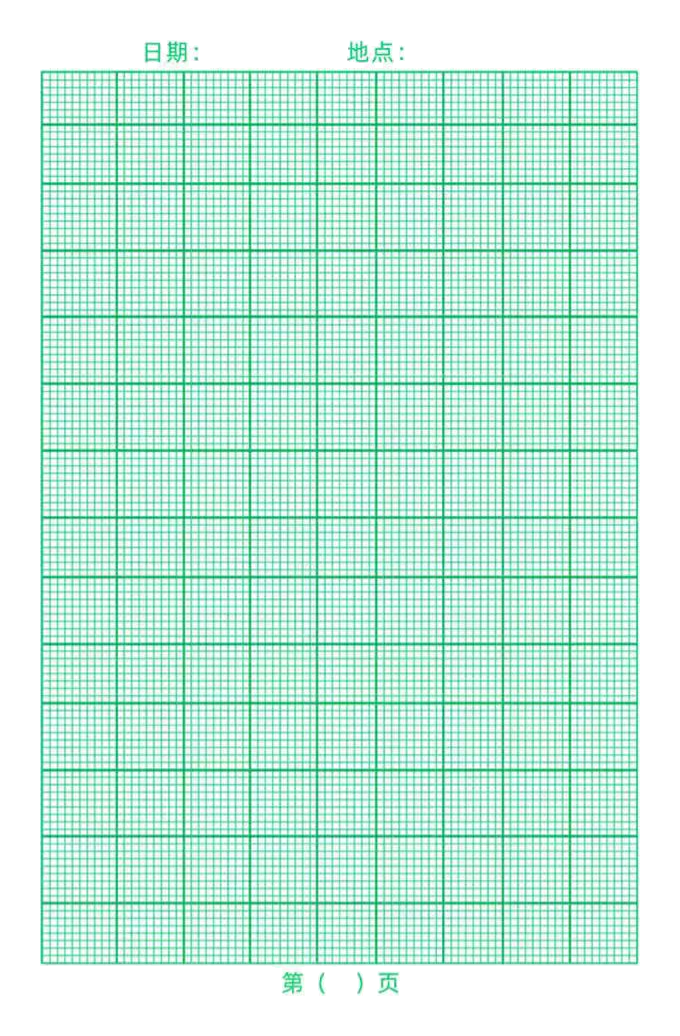
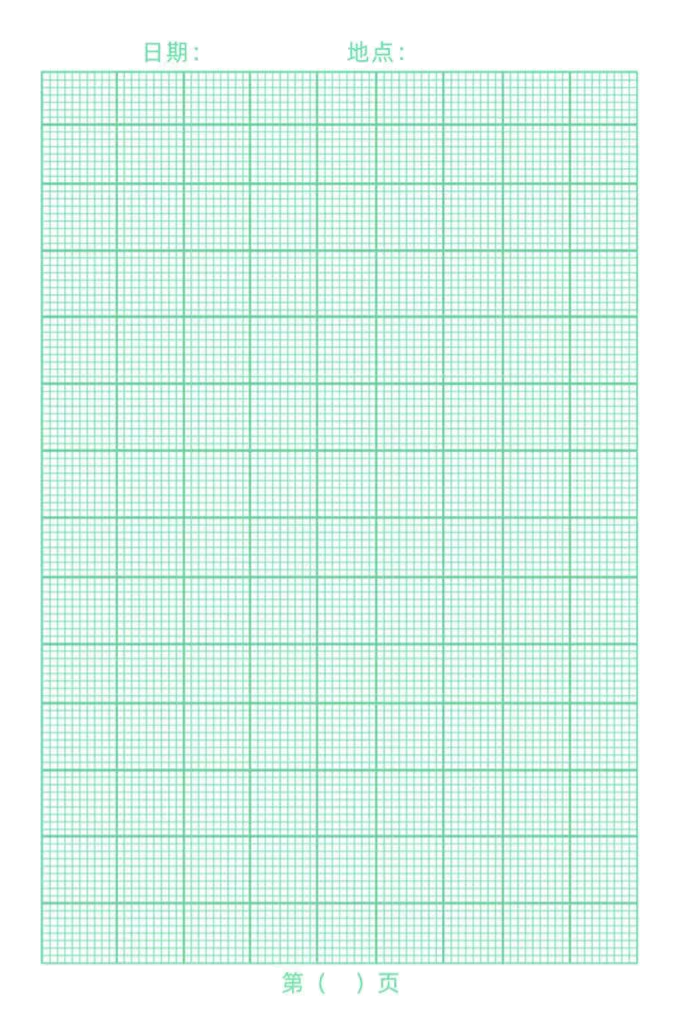
refactor(field-notes): lighten extracted content colors
WHAT: Blend extracted content pixels with white (60% original, 40% white) to produce lighter output.

WHY: Extracted content appeared too dark/intense against the white background.

HOW: Modified color blending in extract_content() to use weighted average with white instead of preserving original intensity.

diff --git a/resources/field_notes/process_field_notes.py b/resources/field_notes/process_field_notes.py
@@ -27,7 +27,11 @@ def extract_content(path):
 
     crop_data = data[rmin : rmax + 1, cmin : cmax + 1].astype(np.uint8)
     result = np.full_like(crop_data, 255)
-    result[filled] = crop_data[filled]
+    # 4. 提取并调浅颜色 (通过与白色混合)
+    content_pixels = crop_data[filled].astype(float)
+    # alpha=0.7 表示保留70%原色，30%白色，使绿色看起来更浅/淡
+    lightened = (content_pixels * 0.6 + 255 * 0.4).astype(np.uint8)
+    result[filled] = lightened
     return Image.fromarray(result)
 
 
